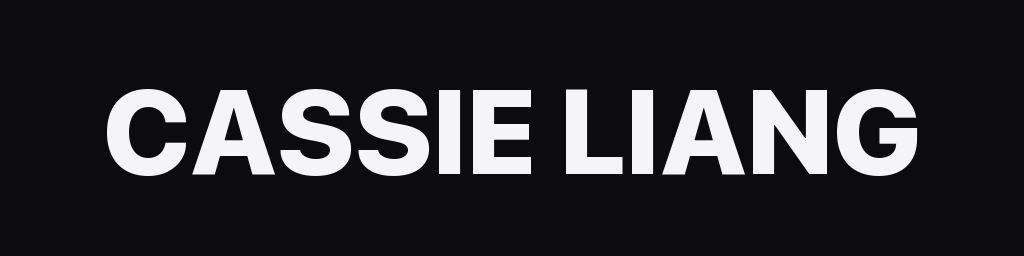
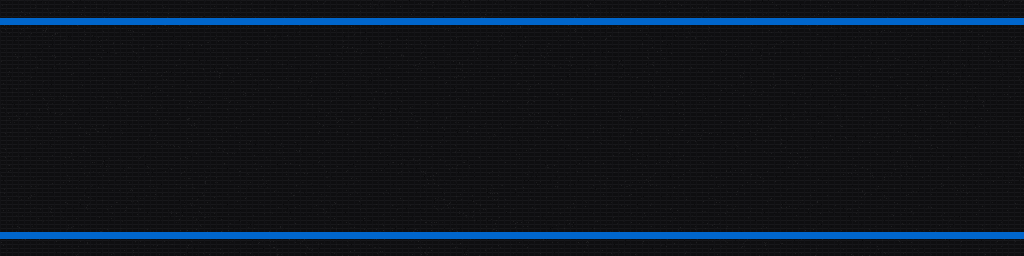
feat: rename site to Yue (Cassie) Liang and simplify lanyard band

Changed region(s): [[0.0938, 0.3438, 0.9062, 0.6875], [0.0, 0.0625, 1.0, 0.125], [0.0, 0.9062, 1.0, 0.9375]]

diff --git a/en/index.html b/en/index.html
@@ -4,11 +4,11 @@
   <!-- Generated by scripts/build-en.mjs from index.html. Do not edit by hand. -->
   <meta charset="utf-8">
   <meta name="viewport" content="width=device-width, initial-scale=1">
-  <meta name="description" content="Yue(Cassie) Liang is an AI master’s student and independent builder with experience in product operations, product management, business analysis, and audit.">
+  <meta name="description" content="Yue (Cassie) Liang is an AI master’s student and independent builder with experience in product operations, product management, business analysis, and audit.">
   <meta name="theme-color" content="#f7f7f3">
   <meta property="og:type" content="website">
-  <meta property="og:title" content="Yue(Cassie) Liang · AI student and independent builder">
-  <meta property="og:description" content="Explore Yue(Cassie) Liang’s projects, experience, and writing across AI, product, business analysis, and audit.">
+  <meta property="og:title" content="Yue (Cassie) Liang · AI student and independent builder">
+  <meta property="og:description" content="Explore Yue (Cassie) Liang’s projects, experience, and writing across AI, product, business analysis, and audit.">
   <meta property="og:locale" content="en">
   <meta property="og:url" content="https://liangyue.site/en/">
   <meta property="og:image" content="https://liangyue.site/assets/room-spec/home.webp">
@@ -17,7 +17,7 @@
   <link rel="alternate" hreflang="zh-CN" href="https://liangyue.site/">
   <link rel="alternate" hreflang="en" href="https://liangyue.site/en/">
   <link rel="alternate" hreflang="x-default" href="https://liangyue.site/">
-  <title>Yue(Cassie) Liang · AI student and independent builder</title>
+  <title>Yue (Cassie) Liang · AI student and independent builder</title>
   <link rel="icon" type="image/png" href="assets/characters/cassie-favicon.png">
   <link rel="apple-touch-icon" href="assets/characters/cassie-favicon.png">
   <link rel="preconnect" href="https://fonts.googleapis.com">
@@ -32,10 +32,10 @@
   <a class="skip-link" href="#main" data-zh="跳到主要内容" data-en="Skip to main content"></a>
 
   <header class="topbar">
-    <button class="home-link" type="button" data-room-link="home" aria-label="回到 Yue(Cassie) Liang 的主页">
+    <button class="home-link" type="button" data-room-link="home" aria-label="回到 Yue (Cassie) Liang 的主页">
       <img class="home-avatar" src="assets/characters/cassie-favicon.png" alt="" aria-hidden="true">
       <span class="home-wordmark">
-        <strong data-zh="Yue(Cassie) Liang" data-en="Yue(Cassie) Liang"></strong>
+        <strong data-zh="Yue (Cassie) Liang" data-en="Yue (Cassie) Liang"></strong>
         <small data-zh="AI 硕士在读 · 独立开发者" data-en="M.S. AI · Independent builder"></small>
       </span>
     </button>
@@ -70,8 +70,8 @@
     <section class="world is-active stage-home" id="home" data-room="home" aria-labelledby="homeTitle">
       <div class="stage-intro">
         <div class="stage-heading">
-          <p class="eyebrow" data-zh="YUE(CASSIE) LIANG" data-en="YUE(CASSIE) LIANG"></p>
-          <h1 id="homeTitle" data-zh="嗨，我是梁悦。现在在湾区读 AI，也在做自己的 app。" data-en="Hi, I'm Cassie Liang. I study AI in the Bay Area and build apps of my own."></h1>
+          <p class="eyebrow" data-zh="YUE (CASSIE) LIANG" data-en="YUE (CASSIE) LIANG"></p>
+          <h1 id="homeTitle" data-zh="嗨，我是梁悦。现在在湾区读 AI，也在做自己的 app。" data-en="Hi, I'm Yue (Cassie) Liang. I study AI in the Bay Area and build apps of my own."></h1>
         </div>
         <div class="stage-story">
           <p data-zh="我做过产品运营、产品经理、商业分析和审计，现在主要写代码。这里放着我的项目、经历和文章。" data-en="I have worked in product operations, product management, business analysis, and audit. These days I mostly write code. This site holds my projects, experience, and writing."></p>
@@ -90,9 +90,9 @@
 
       <div class="stage-scene-shell">
         <div class="stage-scene-label"><span>SCENE 01</span><strong data-zh="家" data-en="HOME"></strong></div>
-        <div class="home-scene scene-frame miniature-house" id="homeScene" aria-label="可拖动的 Cassie 微缩屋" data-aria-zh="可拖动和缩放的 Cassie 微缩舞台" data-aria-en="Cassie's draggable and zoomable miniature stage">
+        <div class="home-scene scene-frame miniature-house" id="homeScene" aria-label="可拖动的 Yue 微缩屋" data-aria-zh="可拖动和缩放的 Yue 微缩舞台" data-aria-en="Yue's draggable and zoomable miniature stage">
         <div class="miniature-world" id="miniatureWorld">
-          <img class="scene-art" src="assets/room-spec/home-stage-theatre.webp" alt="暖色舞台上的 Cassie 微缩房间，脚灯、光点路径、床、工作桌和书架构成一幕正在发生的故事" fetchpriority="high" draggable="false">
+          <img class="scene-art" src="assets/room-spec/home-stage-theatre.webp" alt="暖色舞台上的 Yue 微缩房间，脚灯、光点路径、床、工作桌和书架构成一幕正在发生的故事" fetchpriority="high" draggable="false">
           <div class="scene-wash" aria-hidden="true"></div>
 
           <div class="home-hotspots" aria-label="可探索的房间入口" data-aria-zh="可探索的舞台入口" data-aria-en="Stage entrances to explore">
@@ -122,7 +122,7 @@
     <section class="world room-world" id="profile" data-room="profile" aria-labelledby="aboutTitle" hidden>
       <div class="room-layout about-layout">
         <div class="room-visual scene-frame">
-          <img class="scene-art" src="assets/room-spec/about.webp?v=20260812" alt="Cassie 坐在现代单人床上写东西，身边有一只猫和少量绿植" onerror="this.onerror=null;this.src='assets/room-spec/about.png?v=20260812'">
+          <img class="scene-art" src="assets/room-spec/about.webp?v=20260812" alt="Yue 坐在现代单人床上写东西，身边有一只猫和少量绿植" onerror="this.onerror=null;this.src='assets/room-spec/about.png?v=20260812'">
           <div class="scene-wash" aria-hidden="true"></div>
           <button class="back-home in-scene" type="button" data-room-link="home"><i class="ph ph-arrow-left" aria-hidden="true"></i><span data-zh="回到房间" data-en="Back home"></span></button>
           <div class="scene-sparkles" aria-hidden="true"><span></span><span></span><span></span><span></span></div>
@@ -136,7 +136,7 @@
 
         <article class="story-panel about-panel">
           <p class="eyebrow" data-zh="关于我 · ABOUT" data-en="ABOUT"></p>
-          <h1 id="aboutTitle" data-zh="Yue(Cassie) Liang" data-en="Yue(Cassie) Liang"></h1>
+          <h1 id="aboutTitle" data-zh="Yue (Cassie) Liang" data-en="Yue (Cassie) Liang"></h1>
           <p class="lede" data-zh="我在东北大学（Northeastern University）硅谷校区读MSAI，想成为一名可以独立把产品做出来的工程师。" data-en="I am studying MSAI at Northeastern University’s Silicon Valley campus, working toward becoming an engineer who can take a product from idea to release independently."></p>
           <p><a href="https://www.linkedin.com/in/yue-liang-cassie/" class="about-link" target="_blank" rel="noopener noreferrer"><i class="ph ph-linkedin-logo" aria-hidden="true"></i><span data-zh="在 LinkedIn 认识我：yue-liang-cassie" data-en="Find me on LinkedIn: yue-liang-cassie"></span></a></p>
           <p data-zh="我是新疆人，本科在上海读国际会计。后来在盒马、KnowYourself、美团和德勤工作，做过产品运营、产品经理、商业分析和审计。" data-en="I am from Xinjiang and studied international accounting in Shanghai. I later worked at Hema, KnowYourself, Meituan, and Deloitte in product operations, product management, business analysis, and audit."></p>
@@ -144,7 +144,7 @@
 
           <p data-zh="读研以后，我以 Research Assistant 的身份加入 Smith-Kettlewell Eye Research Institute，参与 YouDescribe —— 一个把 YouTube 画面转成音频描述、服务盲人和低视力用户的项目。我参与搭建从场景切分、画面理解、描述生成到时长校验的链路，并完成 FastAPI 服务和 React 审核编辑器；在一次 30 人的用户研究中，人工撰写时间减少了 64%。" data-en="During graduate school I joined the Smith-Kettlewell Eye Research Institute as a Research Assistant, working on YouDescribe, which turns YouTube footage into audio description for blind and low-vision users. I helped build the pipeline from scene segmentation and visual understanding to description generation and duration checking, and wrote the FastAPI services and the React review editor. In a 30-participant user study, human writing time dropped by 64%."></p>
 
-          <div class="fact-list" aria-label="关于 Cassie 的几个事实">
+          <div class="fact-list" aria-label="关于 Yue 的几个事实">
             <span data-zh="新疆人" data-en="From Xinjiang"></span>
             <span data-zh="NEU MSAI · 预计 2027.12 毕业" data-en="NEU MSAI · expected Dec 2027"></span>
             <span data-zh="Smith-Kettlewell Research Assistant" data-en="Smith-Kettlewell Research Assistant"></span>
@@ -296,7 +296,7 @@
     <section class="world room-world" id="writing" data-room="writing" aria-labelledby="writingTitle" hidden>
       <div class="writing-shell">
         <div class="writing-visual scene-frame">
-          <img class="scene-art" src="assets/room-spec/writing-v2.webp?v=20260812" alt="Cassie 坐在冷白与浅木色的阅读角看书，书架里放着产品笔记、随笔和生活档案" onerror="this.onerror=null;this.src='assets/room-spec/writing-v2.png?v=20260812'">
+          <img class="scene-art" src="assets/room-spec/writing-v2.webp?v=20260812" alt="Yue 坐在冷白与浅木色的阅读角看书，书架里放着产品笔记、随笔和生活档案" onerror="this.onerror=null;this.src='assets/room-spec/writing-v2.png?v=20260812'">
           <div class="scene-wash" aria-hidden="true"></div>
           <button class="back-home in-scene" type="button" data-room-link="home"><i class="ph ph-arrow-left" aria-hidden="true"></i><span data-zh="回到房间" data-en="Back home"></span></button>
           <div class="scene-sparkles" aria-hidden="true"><span></span><span></span><span></span><span></span></div>

diff --git a/studio.js b/studio.js
@@ -119,7 +119,7 @@ const t=v=>Array.isArray(v)?v[locale==='zh'?0:1]:v;
 function fadeMusic(target,duration=320,done){cancelAnimationFrame(audioFade);const from=backgroundAudio.volume;const started=performance.now();const tick=now=>{const progress=Math.min(1,(now-started)/duration);backgroundAudio.volume=from+(target-from)*(1-Math.pow(1-progress,2));if(progress<1)audioFade=requestAnimationFrame(tick);else{audioFade=0;done?.()}};audioFade=requestAnimationFrame(tick)}
 function stopMusic(){soundtrackToken+=1;fadeMusic(0,240,()=>backgroundAudio.pause())}
 function switchSoundtrack(room){if(!sound)return;const token=++soundtrackToken;const next=new URL(soundtrackByRoom[room],document.baseURI).href;if(backgroundAudio.src===next&&!backgroundAudio.paused){fadeMusic(musicVolume,260);return}const start=()=>{if(token!==soundtrackToken||!sound)return;backgroundAudio.src=next;backgroundAudio.currentTime=0;backgroundAudio.volume=0;backgroundAudio.play().then(()=>fadeMusic(musicVolume,440)).catch(()=>{sound=false;document.getElementById('soundToggle').setAttribute('aria-pressed','false');applyLocale()})};if(backgroundAudio.paused||backgroundAudio.volume===0)start();else fadeMusic(0,220,()=>{backgroundAudio.pause();start()})}
-function applyLocale(){document.documentElement.lang=locale==='zh'?'zh-CN':'en';document.title=locale==='zh'?'Yue(Cassie) Liang 的个人主页':'Yue(Cassie) Liang · AI student and independent builder';document.querySelector('meta[name="description"]').content=locale==='zh'?'Yue(Cassie) Liang 的个人主页：人工智能硕士在读、独立开发者，做过产品、商业分析和审计。这里是她的项目、经历和文章。':'Yue(Cassie) Liang is an AI master’s student and independent builder with experience in product, business analysis, and audit.';document.querySelector('.home-link').setAttribute('aria-label',locale==='zh'?'回到 Yue(Cassie) Liang 的主页':"Return to Yue(Cassie) Liang's homepage");document.querySelector('.utility-links').setAttribute('aria-label',locale==='zh'?'站点工具':'Site tools');document.querySelector('.house-map').setAttribute('aria-label',locale==='zh'?'底部场景导航':'Scene navigation');document.querySelector('.writing-categories').setAttribute('aria-label',locale==='zh'?'文章分类':'Article categories');document.querySelectorAll('[data-zh][data-en]').forEach(el=>{el.textContent=el.dataset[locale]});document.querySelectorAll('[data-aria-zh][data-aria-en]').forEach(el=>el.setAttribute('aria-label',el.dataset[locale==='zh'?'ariaZh':'ariaEn']));document.getElementById('languageToggle').textContent=locale==='zh'?'EN':'中';document.getElementById('languageToggle').setAttribute('aria-label',locale==='zh'?'Switch to English':'切换到中文');syncLocalizedResumeLink();const soundToggle=document.getElementById('soundToggle');soundToggle.textContent=locale==='zh'?(sound?'音乐开':'音乐关'):(sound?'Music on':'Music off');soundToggle.title=sound?(locale==='zh'?`正在播放：${soundtrackTitles[current]}`:`Playing: ${soundtrackTitles[current]}`):(locale==='zh'?'打开背景音乐':'Turn on background music');soundToggle.setAttribute('aria-label',soundToggle.title);selectCity(document.querySelector('.city-switcher [data-city][aria-selected=true]')?.dataset.city||'hami');renderProject(document.querySelector('.project-object.is-selected')?.dataset.project||'tabspace');selectWriting(document.querySelector('.writing-categories [data-writing-filter][aria-selected=true]')?.dataset.writingFilter||'build');updateStatus()}
+function applyLocale(){document.documentElement.lang=locale==='zh'?'zh-CN':'en';document.title=locale==='zh'?'Yue (Cassie) Liang 的个人主页':'Yue (Cassie) Liang · AI student and independent builder';document.querySelector('meta[name="description"]').content=locale==='zh'?'Yue (Cassie) Liang 的个人主页：人工智能硕士在读、独立开发者，做过产品、商业分析和审计。这里是她的项目、经历和文章。':'Yue (Cassie) Liang is an AI master’s student and independent builder with experience in product, business analysis, and audit.';document.querySelector('.home-link').setAttribute('aria-label',locale==='zh'?'回到 Yue (Cassie) Liang 的主页':"Return to Yue (Cassie) Liang's homepage");document.querySelector('.utility-links').setAttribute('aria-label',locale==='zh'?'站点工具':'Site tools');document.querySelector('.house-map').setAttribute('aria-label',locale==='zh'?'底部场景导航':'Scene navigation');document.querySelector('.writing-categories').setAttribute('aria-label',locale==='zh'?'文章分类':'Article categories');document.querySelectorAll('[data-zh][data-en]').forEach(el=>{el.textContent=el.dataset[locale]});document.querySelectorAll('[data-aria-zh][data-aria-en]').forEach(el=>el.setAttribute('aria-label',el.dataset[locale==='zh'?'ariaZh':'ariaEn']));document.getElementById('languageToggle').textContent=locale==='zh'?'EN':'中';document.getElementById('languageToggle').setAttribute('aria-label',locale==='zh'?'Switch to English':'切换到中文');syncLocalizedResumeLink();const soundToggle=document.getElementById('soundToggle');soundToggle.textContent=locale==='zh'?(sound?'音乐开':'音乐关'):(sound?'Music on':'Music off');soundToggle.title=sound?(locale==='zh'?`正在播放：${soundtrackTitles[current]}`:`Playing: ${soundtrackTitles[current]}`):(locale==='zh'?'打开背景音乐':'Turn on background music');soundToggle.setAttribute('aria-label',soundToggle.title);selectCity(document.querySelector('.city-switcher [data-city][aria-selected=true]')?.dataset.city||'hami');renderProject(document.querySelector('.project-object.is-selected')?.dataset.project||'tabspace');selectWriting(document.querySelector('.writing-categories [data-writing-filter][aria-selected=true]')?.dataset.writingFilter||'build');updateStatus()}
 function syncLocalizedResumeLink(){const el=document.getElementById('localizedResumeLink');if(el)el.href=locale==='zh'?el.dataset.resumeCn:el.dataset.resumeEn;document.querySelectorAll('[data-href-zh][data-href-en]').forEach(a=>{a.href=a.dataset[locale==='zh'?'hrefZh':'hrefEn']})}
 function updateStatus(){document.getElementById('roomStatusLabel').textContent=labels[current][locale==='zh'?0:1];document.getElementById('roomProgress').textContent=`${visited.size} / 4`;document.querySelectorAll('[data-room-link]').forEach(b=>b.classList.toggle('is-current',b.dataset.roomLink===current))}
 function showScene(room,push){current=room;document.body.dataset.tone=room==='profile'||room==='timeline'?'memory':room==='works'||room==='writing'?'build':'home';document.querySelectorAll('.world').forEach(el=>{const on=el.dataset.room===room;el.hidden=!on;el.classList.toggle('is-active',on);el.classList.toggle('is-scene-entering',on)});document.body.classList.remove('is-changing-scene');setTimeout(()=>document.querySelector(`[data-room="${room}"]`)?.classList.remove('is-scene-entering'),580);if(room!=='home'){visited.add(room);sessionStorage.setItem('cassie-visited',JSON.stringify([...visited]))}else if(typeof miniature!=='undefined')miniature.reset();updateStatus();applyLocale();switchSoundtrack(room);if(push){const hash=room==='home'?'':`#${room}`;history.pushState(null,'',`${location.pathname}${hash}`)}window.scrollTo({top:0,behavior:'instant'})}

diff --git a/react-site/src/WorkPage.tsx b/react-site/src/WorkPage.tsx
@@ -16,13 +16,13 @@ const Lanyard=lazy(()=>import('./Lanyard.jsx'));
 function LanyardIdentity(){
  const [interactive,setInteractive]=useState(()=>typeof window!=='undefined'&&!matchMedia('(max-width: 759px), (prefers-reduced-motion: reduce)').matches);
  useEffect(()=>{const media=matchMedia('(max-width: 759px), (prefers-reduced-motion: reduce)');const update=()=>setInteractive(!media.matches);media.addEventListener('change',update);return()=>media.removeEventListener('change',update)},[]);
- if(!interactive)return <div className="lanyard-wrap is-static" aria-label="Cassie 的工作身份牌"><span className="lanyard-line"/><div className="identity-pass"><small>WORK IN PROGRESS</small><img src={avatar} alt=""/><strong>Cassie Liang</strong><span>AI STUDENT · INDIE BUILDER</span><em>BUILDER PASS · 01</em></div></div>;
- return <div className="lanyard-three" aria-label="Cassie 的 3D 工作身份牌，可以拖动"><Suspense fallback={<div className="lanyard-loading">正在挂上工作牌…</div>}><Lanyard position={[0,0,16]} gravity={[0,-40,0]} fov={20} cardImage={cassieCard} lanyardImage={cassieBand}/></Suspense></div>;
+ if(!interactive)return <div className="lanyard-wrap is-static" aria-label="Yue 的工作身份牌"><span className="lanyard-line"/><div className="identity-pass"><small>WORK IN PROGRESS</small><img src={avatar} alt=""/><strong>Yue (Cassie) Liang</strong><span>AI STUDENT · INDIE BUILDER</span><em>BUILDER PASS · 01</em></div></div>;
+ return <div className="lanyard-three" aria-label="Yue 的 3D 工作身份牌，可以拖动"><Suspense fallback={<div className="lanyard-loading">正在挂上工作牌…</div>}><Lanyard position={[0,0,16]} gravity={[0,-40,0]} fov={20} cardImage={cassieCard} lanyardImage={cassieBand}/></Suspense></div>;
 }
 
 function ProductDock(){
  const visible=projects.filter(project=>project.id==='1day'||project.id==='tabspace');const [active,setActive]=useState(visible[0]);
- return <div className="product-inline"><div className="product-switcher" role="tablist" aria-label="Cassie 的主要产品">{visible.map((project,index)=><button role="tab" type="button" key={project.id} className={active.id===project.id?'is-active':''} aria-selected={active.id===project.id} onClick={()=>setActive(project)}><span className="switcher-index">0{index+1}</span><img src={productLogoById[project.id]} alt=""/><span><strong>{project.name}</strong><small>{project.category}</small></span></button>)}</div><article className="product-inline-detail" aria-live="polite"><header><div><small>{active.category} · {active.status}</small><h3>{active.name}</h3></div><p>{active.description}</p></header><div className="inline-detail-sections"><section><h4>为什么做</h4><p>{active.story}</p></section><section><h4>我负责的部分</h4><p>{active.role}</p></section><section><h4>一个关键选择</h4><p>{active.decision}</p></section></div><footer><a href={active.url} target="_blank" rel="noreferrer">打开项目 ↗</a><a href={active.source} target="_blank" rel="noreferrer">查看源码 ↗</a></footer></article></div>;
+ return <div className="product-inline"><div className="product-switcher" role="tablist" aria-label="Yue 的主要产品">{visible.map((project,index)=><button role="tab" type="button" key={project.id} className={active.id===project.id?'is-active':''} aria-selected={active.id===project.id} onClick={()=>setActive(project)}><span className="switcher-index">0{index+1}</span><img src={productLogoById[project.id]} alt=""/><span><strong>{project.name}</strong><small>{project.category}</small></span></button>)}</div><article className="product-inline-detail" aria-live="polite"><header><div><small>{active.category} · {active.status}</small><h3>{active.name}</h3></div><p>{active.description}</p></header><div className="inline-detail-sections"><section><h4>为什么做</h4><p>{active.story}</p></section><section><h4>我负责的部分</h4><p>{active.role}</p></section><section><h4>一个关键选择</h4><p>{active.decision}</p></section></div><footer><a href={active.url} target="_blank" rel="noreferrer">打开项目 ↗</a><a href={active.source} target="_blank" rel="noreferrer">查看源码 ↗</a></footer></article></div>;
 }
 
 const studioRooms=[
@@ -44,7 +44,7 @@ export function StudioArchiveFooter(){return <aside className="studio-archive-fo
 
 export function WorkPage({showArchive=true}:{showArchive?:boolean}){
  return <div className="work-page">
-  <section className="work-hero"><div className="hero-copy"><p className="eyebrow">CASSIE LIANG / 梁悦</p><h1>AI 学生，<br/><em>1Day</em> 的独立开发者。</h1><p>我在 San Jose 学习人工智能，也独立设计、开发和发布自己的产品。现在主要在做 AI 应用、iOS 和浏览器工具。</p><nav><a className="button-primary" href="#flagship">看作品 ↓</a><a href="#resume">关于我 ↗</a><a href="https://github.com/cassieliang6709" target="_blank" rel="noreferrer">GitHub ↗</a></nav></div><div className="hero-object" aria-label="Cassie 的工作身份牌"><LanyardIdentity/></div></section>
+  <section className="work-hero"><div className="hero-copy"><p className="eyebrow">YUE (CASSIE) LIANG / 梁悦</p><h1>AI 学生，<br/><em>1Day</em> 的独立开发者。</h1><p>我在 San Jose 学习人工智能，也独立设计、开发和发布自己的产品。现在主要在做 AI 应用、iOS 和浏览器工具。</p><nav><a className="button-primary" href="#flagship">看作品 ↓</a><a href="#resume">关于我 ↗</a><a href="https://github.com/cassieliang6709" target="_blank" rel="noreferrer">GitHub ↗</a></nav></div><div className="hero-object" aria-label="Yue 的工作身份牌"><LanyardIdentity/></div></section>
   <section id="flagship" className="product-library"><header><p className="eyebrow">PRODUCTS / 01—02</p><h2>先放这两个。</h2><span>切换产品，详情留在这一页。</span></header><ProductDock/></section>
   {showArchive&&<StudioArchiveFooter/>}
  </div>;

diff --git a/react-site/src/ReadingCorner.tsx b/react-site/src/ReadingCorner.tsx
@@ -25,5 +25,5 @@ export function ReadingCorner({embedded=false}:{embedded?:boolean}){
  const dialog=useRef<HTMLDialogElement>(null),body=useRef<HTMLDivElement>(null);
  useEffect(()=>{if(!selected){dialog.current?.close();return}const previous=document.body.style.overflow;dialog.current?.showModal();document.body.style.overflow='hidden';body.current?.scrollTo(0,0);return()=>{document.body.style.overflow=previous}},[selected]);
  const close=()=>{dialog.current?.close();setSelected(null)};
- return <section className={`reading-corner${embedded?' is-embedded':''}`}>{!embedded&&<><header className="reading-heading"><div><p className="eyebrow">阅读角 / NOTES & STORIES</p><h1>收在这里的一些想法。</h1><p>打开文件夹，挑一篇慢慢读。</p></div><a href="#life">← 回到生活</a></header><div className="reading-room"><img src={room} alt="Cassie 的阅读角，书架与浅木书桌"/></div></>}<div className="folder-shelf">{groups.map(g=>{const list=articles.filter(a=>a.cat===g.id),page=pages[g.id]??0;return <section className="folder-slot" key={g.id} aria-label={g.label}><FolderFloat key={`${g.id}-${page}`} items={list.slice(page*4,page*4+4).map(a=>({label:a.title[0],value:a.id}))} label={g.label} sublabel={`${list.length} 篇`} expanded={opened===g.id} trigger="click" closeOnSelect={false} physics={false} spread={150} folderColor={g.back} frontColor={g.front} onOpenChange={open=>setOpened(open?g.id:null)} onSelect={id=>setSelected(articles.find(a=>a.id===id)??null)}/>{opened===g.id&&list.length>4&&<nav className="folder-pagination" aria-label={`${g.label}翻页`}><button disabled={page===0} onClick={()=>setPages({...pages,[g.id]:page-1})}>← 上一组</button><span>{page+1} / {Math.ceil(list.length/4)}</span><button disabled={(page+1)*4>=list.length} onClick={()=>setPages({...pages,[g.id]:page+1})}>下一组 →</button></nav>}</section>})}</div><dialog ref={dialog} className={`reading-dialog${selected?.comicEpisodes?' is-comic':''}`} aria-labelledby="reading-title" onClose={()=>setSelected(null)} onClick={e=>{if(e.target===e.currentTarget)close()}}>{selected&&<><header><div><p className="eyebrow">{selected.meta[0]}</p><h2 id="reading-title">{selected.title[0]}</h2></div><button onClick={close} aria-label="关闭阅读">×</button></header><div ref={body} className={`reading-body${selected.comicEpisodes?' comic-reading-body':''}`}><p className="reading-deck">{selected.deck[0]}</p>{selected.comicEpisodes?<ComicReader key={selected.id} episodes={selected.comicEpisodes}/>:selected.body[0].map((p,i)=>p.startsWith('## ')?<h3 key={i}>{inline(p.slice(3))}</h3>:p.startsWith('> ')?<blockquote key={i}>{inline(p.slice(2))}</blockquote>:<p key={i}>{inline(p)}</p>)}</div></>}</dialog></section>;
+ return <section className={`reading-corner${embedded?' is-embedded':''}`}>{!embedded&&<><header className="reading-heading"><div><p className="eyebrow">阅读角 / NOTES & STORIES</p><h1>收在这里的一些想法。</h1><p>打开文件夹，挑一篇慢慢读。</p></div><a href="#life">← 回到生活</a></header><div className="reading-room"><img src={room} alt="Yue 的阅读角，书架与浅木书桌"/></div></>}<div className="folder-shelf">{groups.map(g=>{const list=articles.filter(a=>a.cat===g.id),page=pages[g.id]??0;return <section className="folder-slot" key={g.id} aria-label={g.label}><FolderFloat key={`${g.id}-${page}`} items={list.slice(page*4,page*4+4).map(a=>({label:a.title[0],value:a.id}))} label={g.label} sublabel={`${list.length} 篇`} expanded={opened===g.id} trigger="click" closeOnSelect={false} physics={false} spread={150} folderColor={g.back} frontColor={g.front} onOpenChange={open=>setOpened(open?g.id:null)} onSelect={id=>setSelected(articles.find(a=>a.id===id)??null)}/>{opened===g.id&&list.length>4&&<nav className="folder-pagination" aria-label={`${g.label}翻页`}><button disabled={page===0} onClick={()=>setPages({...pages,[g.id]:page-1})}>← 上一组</button><span>{page+1} / {Math.ceil(list.length/4)}</span><button disabled={(page+1)*4>=list.length} onClick={()=>setPages({...pages,[g.id]:page+1})}>下一组 →</button></nav>}</section>})}</div><dialog ref={dialog} className={`reading-dialog${selected?.comicEpisodes?' is-comic':''}`} aria-labelledby="reading-title" onClose={()=>setSelected(null)} onClick={e=>{if(e.target===e.currentTarget)close()}}>{selected&&<><header><div><p className="eyebrow">{selected.meta[0]}</p><h2 id="reading-title">{selected.title[0]}</h2></div><button onClick={close} aria-label="关闭阅读">×</button></header><div ref={body} className={`reading-body${selected.comicEpisodes?' comic-reading-body':''}`}><p className="reading-deck">{selected.deck[0]}</p>{selected.comicEpisodes?<ComicReader key={selected.id} episodes={selected.comicEpisodes}/>:selected.body[0].map((p,i)=>p.startsWith('## ')?<h3 key={i}>{inline(p.slice(3))}</h3>:p.startsWith('> ')?<blockquote key={i}>{inline(p.slice(2))}</blockquote>:<p key={i}>{inline(p)}</p>)}</div></>}</dialog></section>;
 }

diff --git a/react-site/src/RoomScenes.tsx b/react-site/src/RoomScenes.tsx
@@ -14,11 +14,11 @@ export const sceneLinks = [
   {label:'走过的路',href:'#timeline'}, {label:'工作台',href:'#work'},
   {label:'阅读角',href:'#writing'}
 ];
-export function RoomHome(){return <section className="room-home"><header><p className="eyebrow">CASSIE'S ROOM</p><h1>欢迎来我的房间。</h1><p>我在读 AI，也在做自己的产品。随便看看，点一个角落开始。</p></header><div className="room-stage"><img src={home} alt="温暖的小房间：床边、照片墙、工作桌和书架"/>{[{label:'床边 · 关于我',href:sceneLinks[1].href,x:18,y:50},{label:'照片墙 · 走过的路',href:'#timeline',x:51,y:22},{label:'工作桌 · 作品',href:'#work',x:67,y:48},{label:'书架 · 阅读角',href:sceneLinks[4].href,x:85,y:34}].map(p=><a key={p.label} href={p.href} style={{left:`${p.x}%`,top:`${p.y}%`}}>{p.label}<span> ↗</span></a>)}</div></section>}
+export function RoomHome(){return <section className="room-home"><header><p className="eyebrow">YUE'S ROOM</p><h1>欢迎来我的房间。</h1><p>我在读 AI，也在做自己的产品。随便看看，点一个角落开始。</p></header><div className="room-stage"><img src={home} alt="温暖的小房间：床边、照片墙、工作桌和书架"/>{[{label:'床边 · 关于我',href:sceneLinks[1].href,x:18,y:50},{label:'照片墙 · 走过的路',href:'#timeline',x:51,y:22},{label:'工作桌 · 作品',href:'#work',x:67,y:48},{label:'书架 · 阅读角',href:sceneLinks[4].href,x:85,y:34}].map(p=><a key={p.label} href={p.href} style={{left:`${p.x}%`,top:`${p.y}%`}}>{p.label}<span> ↗</span></a>)}</div></section>}
 function Pass(){
  const start=useRef<{x:number;y:number}|null>(null);const [offset,setOffset]=useState({x:0,y:0});const [dragging,setDragging]=useState(false);
  const reset=()=>{start.current=null;setDragging(false);setOffset({x:0,y:0})};
- return <div className={`room-pass ${dragging?'dragging':''}`}><span className="pass-cord" style={{height:Math.hypot(offset.x,75+offset.y),transform:`rotate(${Math.atan2(-offset.x,75+offset.y)}rad)`}}/><button className="pass-card" aria-label="拖动 Cassie 工作牌，松开复位" style={{transform:`translate(${offset.x}px,${offset.y}px) rotate(${offset.x/10-5}deg)`}} onPointerDown={e=>{if(e.button!==0||matchMedia('(prefers-reduced-motion: reduce)').matches)return;start.current={x:e.clientX,y:e.clientY};setDragging(true);e.currentTarget.setPointerCapture(e.pointerId)}} onPointerMove={e=>{if(start.current)setOffset({x:Math.max(-40,Math.min(80,e.clientX-start.current.x)),y:Math.max(-20,Math.min(65,e.clientY-start.current.y))})}} onPointerUp={reset} onPointerCancel={reset} onLostPointerCapture={reset} onBlur={reset} onKeyDown={e=>{if(e.key==='Escape')reset()}}><small>WORK IN PROGRESS</small><img src={avatar} alt=""/><strong>Cassie Liang</strong><span>DESIGN · BUILD · LEARN</span></button></div>
+ return <div className={`room-pass ${dragging?'dragging':''}`}><span className="pass-cord" style={{height:Math.hypot(offset.x,75+offset.y),transform:`rotate(${Math.atan2(-offset.x,75+offset.y)}rad)`}}/><button className="pass-card" aria-label="拖动 Yue 工作牌，松开复位" style={{transform:`translate(${offset.x}px,${offset.y}px) rotate(${offset.x/10-5}deg)`}} onPointerDown={e=>{if(e.button!==0||matchMedia('(prefers-reduced-motion: reduce)').matches)return;start.current={x:e.clientX,y:e.clientY};setDragging(true);e.currentTarget.setPointerCapture(e.pointerId)}} onPointerMove={e=>{if(start.current)setOffset({x:Math.max(-40,Math.min(80,e.clientX-start.current.x)),y:Math.max(-20,Math.min(65,e.clientY-start.current.y))})}} onPointerUp={reset} onPointerCancel={reset} onLostPointerCapture={reset} onBlur={reset} onKeyDown={e=>{if(e.key==='Escape')reset()}}><small>WORK IN PROGRESS</small><img src={avatar} alt=""/><strong>Yue (Cassie) Liang</strong><span>DESIGN · BUILD · LEARN</span></button></div>
 }
 export function Workbench({onOpen}:{onOpen:(p:Project)=>void}){return <section className="scene-split"><div className="desk-scene"><img src={desk} alt="暖色创作工作台"/><a className="back-room" href="#home">← 回到房间</a><Pass/></div><div className="desk-index"><p className="eyebrow">工作桌 / PROJECTS</p><h1>这些是我做过的东西。</h1><p>点开一个项目，看看它解决的问题。</p><div className="product-grid">{projects.map(p=><ProductCard key={p.id} project={p} onOpen={onOpen}/>)}</div></div></section>}
 const chapters=[

diff --git a/react-site/src/LifePage.tsx b/react-site/src/LifePage.tsx
@@ -40,9 +40,9 @@ function MemoryAlbums(){
 }
 
 export function LifePage({embedded=false}:{embedded?:boolean}={}){const [wechatCopied,setWechatCopied]=useState(false);const copyWechat=async()=>{try{await navigator.clipboard.writeText('liangyue3666');setWechatCopied(true);window.setTimeout(()=>setWechatCopied(false),1800)}catch{window.prompt('复制我的微信号', 'liangyue3666')}};return <div className={`life-page${embedded?' is-home-section':''}`}>
- {!embedded&&<section className="life-hero"><div><p className="eyebrow">LIFE / 生活与想法</p><h1>我走过的地方，<br/>也塑造了我做东西的方式。</h1><p>城市、文章和一些不太安静的念头，都收在这里。</p></div><figure><img src={room} alt="Cassie 坐在靠窗的阅读角，身边是书架和浅木色书桌"/><figcaption>READING ROOM · 2026</figcaption></figure></section>}
+ {!embedded&&<section className="life-hero"><div><p className="eyebrow">LIFE / 生活与想法</p><h1>我走过的地方，<br/>也塑造了我做东西的方式。</h1><p>城市、文章和一些不太安静的念头，都收在这里。</p></div><figure><img src={room} alt="Yue 坐在靠窗的阅读角，身边是书架和浅木色书桌"/><figcaption>READING ROOM · 2026</figcaption></figure></section>}
  <section id="life" className="life-section travel-section"><header><p className="eyebrow">01 / PLACES</p><h2>走过的路</h2><span>四座城市，四段把我带到这里的经历。</span></header><TravelPassDeck/></section>
  <section className="life-section memories-section"><header><p className="eyebrow">02 / ALBUMS</p><h2>留下来的画面</h2><span>四本小相册，装着城市、作品和旧工作室。</span></header><MemoryAlbums/></section>
  <section className="life-section notes-section"><header><p className="eyebrow">03 / NOTES & STORIES</p><h2>收下来的想法</h2><span>做东西、想事情，也记录生活。</span></header><ReadingCorner embedded/></section>
- <section className="contact-section"><div><p className="eyebrow">04 / CONTACT</p><h2>一起做点东西。</h2></div><div className="contact-copy"><p>我正在寻找 AI 应用研发与产品工程相关机会，也欢迎聊产品、合作，或者一个值得解决的问题。</p><nav aria-label="联系 Cassie"><a className="contact-primary" href="mailto:liangyue3666@gmail.com">发邮件 ↗</a><button type="button" onClick={copyWechat}>{wechatCopied?'微信号已复制 ✓':'微信 · liangyue3666'}</button><a href="https://github.com/cassieliang6709" target="_blank" rel="noreferrer">GitHub ↗</a></nav></div></section>
+ <section className="contact-section"><div><p className="eyebrow">04 / CONTACT</p><h2>一起做点东西。</h2></div><div className="contact-copy"><p>我正在寻找 AI 应用研发与产品工程相关机会，也欢迎聊产品、合作，或者一个值得解决的问题。</p><nav aria-label="联系 Yue"><a className="contact-primary" href="mailto:liangyue3666@gmail.com">发邮件 ↗</a><button type="button" onClick={copyWechat}>{wechatCopied?'微信号已复制 ✓':'微信 · liangyue3666'}</button><a href="https://github.com/cassieliang6709" target="_blank" rel="noreferrer">GitHub ↗</a></nav></div></section>
  </div>}

diff --git a/react-site/src/main.tsx b/react-site/src/main.tsx
@@ -15,9 +15,9 @@ function App(){
  const switchPage=(next:Page)=>{if(next===page)return;history.pushState(null,'',`${location.pathname}#${next}`);setPage(next);window.scrollTo({top:0,behavior:'auto'})};
  return <div className={`site-shell is-${page}`}>
   <a className="skip" href="#content">跳到内容</a>
-  <header className="site-header"><a className="site-identity" href="#home" onClick={e=>{e.preventDefault();switchPage('home')}}><img src={avatar} alt=""/><span>Cassie Liang<small>梁悦</small></span></a><nav className="primary-tabs" aria-label="主要内容"><button className={page==='home'?'active':''} aria-current={page==='home'?'page':undefined} onClick={()=>switchPage('home')}>HOME <span>主页</span></button><button className={page==='resume'?'active':''} aria-current={page==='resume'?'page':undefined} onClick={()=>switchPage('resume')}>ABOUT <span>关于我</span></button></nav><nav className="header-tools" aria-label="站点工具"><a href="https://liangyue.site/en/">EN</a><a href="mailto:liangyue3666@gmail.com">CONTACT</a></nav></header>
+  <header className="site-header"><a className="site-identity" href="#home" onClick={e=>{e.preventDefault();switchPage('home')}}><img src={avatar} alt=""/><span>Yue (Cassie) Liang<small>梁悦</small></span></a><nav className="primary-tabs" aria-label="主要内容"><button className={page==='home'?'active':''} aria-current={page==='home'?'page':undefined} onClick={()=>switchPage('home')}>HOME <span>主页</span></button><button className={page==='resume'?'active':''} aria-current={page==='resume'?'page':undefined} onClick={()=>switchPage('resume')}>ABOUT <span>关于我</span></button></nav><nav className="header-tools" aria-label="站点工具"><a href="https://liangyue.site/en/">EN</a><a href="mailto:liangyue3666@gmail.com">CONTACT</a></nav></header>
   <main id="content">{page==='home'?<><WorkPage showArchive={false}/><LifePage embedded/><StudioArchiveFooter/></>:<ResumePage/>}</main>
-  <footer className="site-footer"><span>© 2026 Cassie Liang</span><nav><a href="#resume" onClick={e=>{e.preventDefault();switchPage('resume')}}>简历</a><a href="https://github.com/cassieliang6709" target="_blank" rel="noreferrer">GitHub</a><a href="mailto:liangyue3666@gmail.com">Email</a></nav></footer>
+  <footer className="site-footer"><span>© 2026 Yue (Cassie) Liang</span><nav><a href="#resume" onClick={e=>{e.preventDefault();switchPage('resume')}}>简历</a><a href="https://github.com/cassieliang6709" target="_blank" rel="noreferrer">GitHub</a><a href="mailto:liangyue3666@gmail.com">Email</a></nav></footer>
   <nav className="mobile-tabs" aria-label="主要内容"><button className={page==='home'?'active':''} onClick={()=>switchPage('home')}>主页</button><button className={page==='resume'?'active':''} onClick={()=>switchPage('resume')}>关于</button></nav>
  </div>;
 }

diff --git a/react-site/index.html b/react-site/index.html
@@ -1,1 +1,1 @@
-<!doctype html><html lang="zh-CN"><head><meta charset="UTF-8"><meta name="viewport" content="width=device-width, initial-scale=1"><meta name="description" content="Cassie Liang 的个人主页：1Day、Tabspace，以及她正在做的产品和记录。"><title>Cassie Liang — AI 学生与独立开发者</title></head><body><div id="root"></div><script type="module" src="/src/main.tsx"></script></body></html>
+<!doctype html><html lang="zh-CN"><head><meta charset="UTF-8"><meta name="viewport" content="width=device-width, initial-scale=1"><meta name="description" content="Yue (Cassie) Liang 的个人主页：1Day、Tabspace，以及她正在做的产品和记录。"><title>Yue (Cassie) Liang — AI 学生与独立开发者</title></head><body><div id="root"></div><script type="module" src="/src/main.tsx"></script></body></html>

diff --git a/react-site/src/ResumePage.tsx b/react-site/src/ResumePage.tsx
@@ -14,7 +14,7 @@ export function ResumePage(){
  return <div className="resume-page">
   <section className="resume-intro">
    <p className="eyebrow">ABOUT / 简历</p>
-   <h1>你好，我是 Cassie <span aria-hidden="true">👋</span></h1>
+   <h1>你好，我是 Yue <span aria-hidden="true">👋</span></h1>
    <p>我在 San Jose 学习人工智能，也独立设计、开发和发布自己的产品。目前主要做 AI 应用、iOS 和浏览器工具。</p>
    <nav aria-label="联系与简历">
     <a className="resume-primary" href="mailto:liangyue3666@gmail.com">发个邮件 ↗</a>
